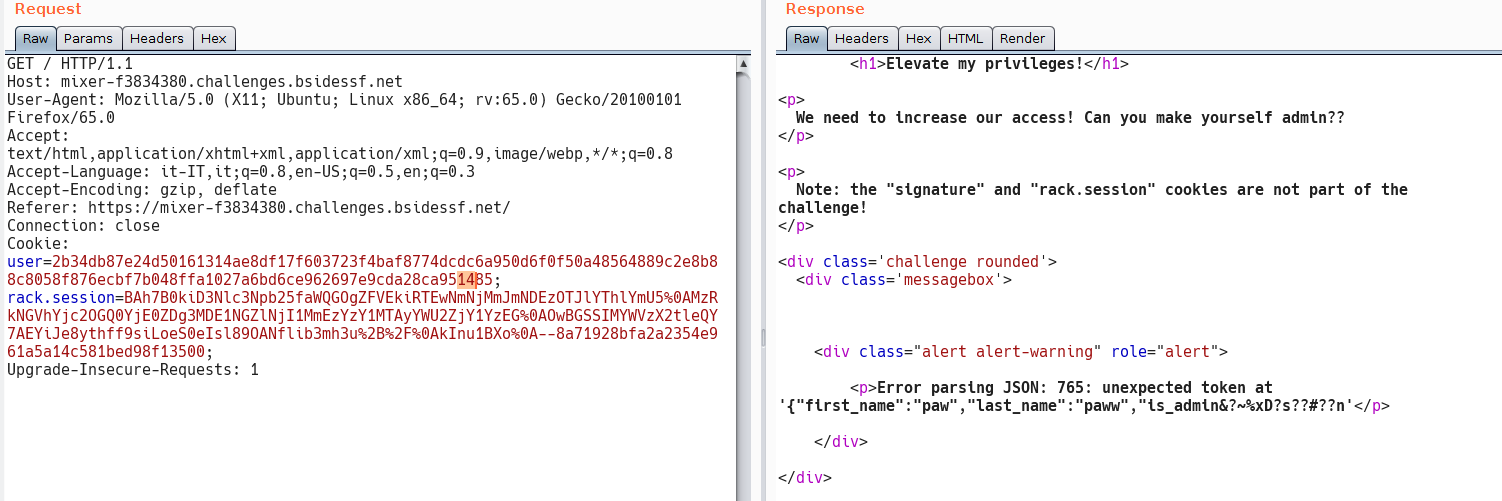
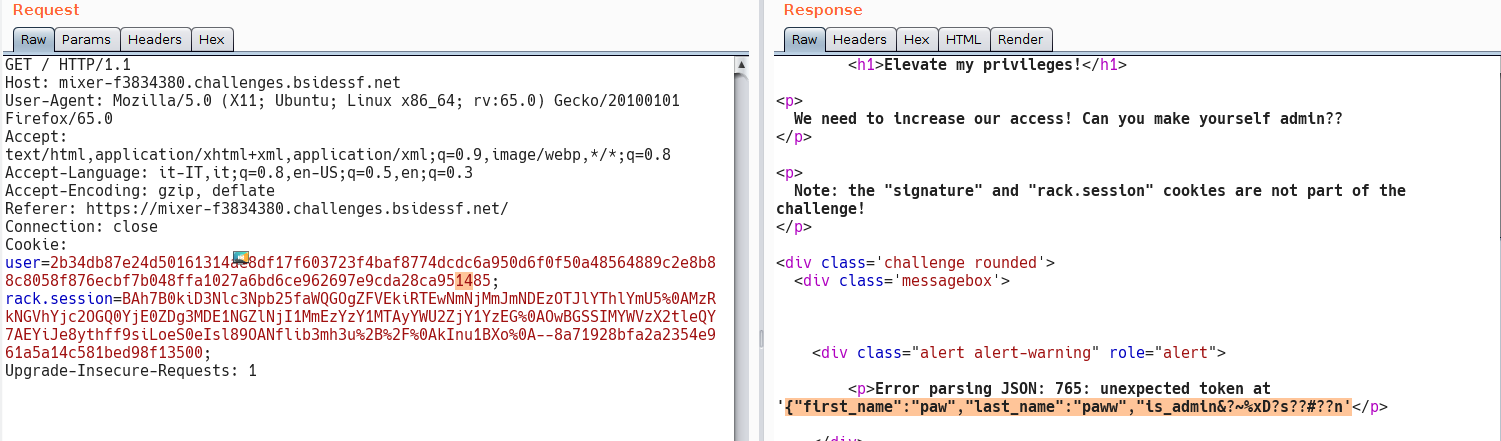
writeup

Changed region(s): [[0.0, 0.0, 1.0, 0.8549], [0.4903, 0.8549, 0.9194, 0.9728]]

diff --git a/2019/BSidesSF_CTF/web/mixer/README.md b/2019/BSidesSF_CTF/web/mixer/README.md
@@ -13,8 +13,15 @@ Just use this cookie and see what we get back
 ![alt text](screen/normal_login.png)
 
 So, my guess is:
-the cookie is encrypted with AES ECB mode
+the cookie is encrypted with AES ECB mode. And if it is that's BAD!!! ;)
 
 Let's start modify user cookie at random position by just flipping one byte, in order to verify if the assumption is correct.
 
 ![alt text](screen/flip_one_byte.png)
+
+As we can see the guess about AES ECB was correct, by flipping one byte we change the encrypte payload that now is no more a valid json.
+Also we can see that the cookie is AES(json) like so:
+## {"first_name":"paw":,"last_name":"paww","is_admin":0}
+
+To get the flag we now need to modify the json payload in something like:
+## {"first_name":"paw":,"last_name":"paww","is_admin":1}
